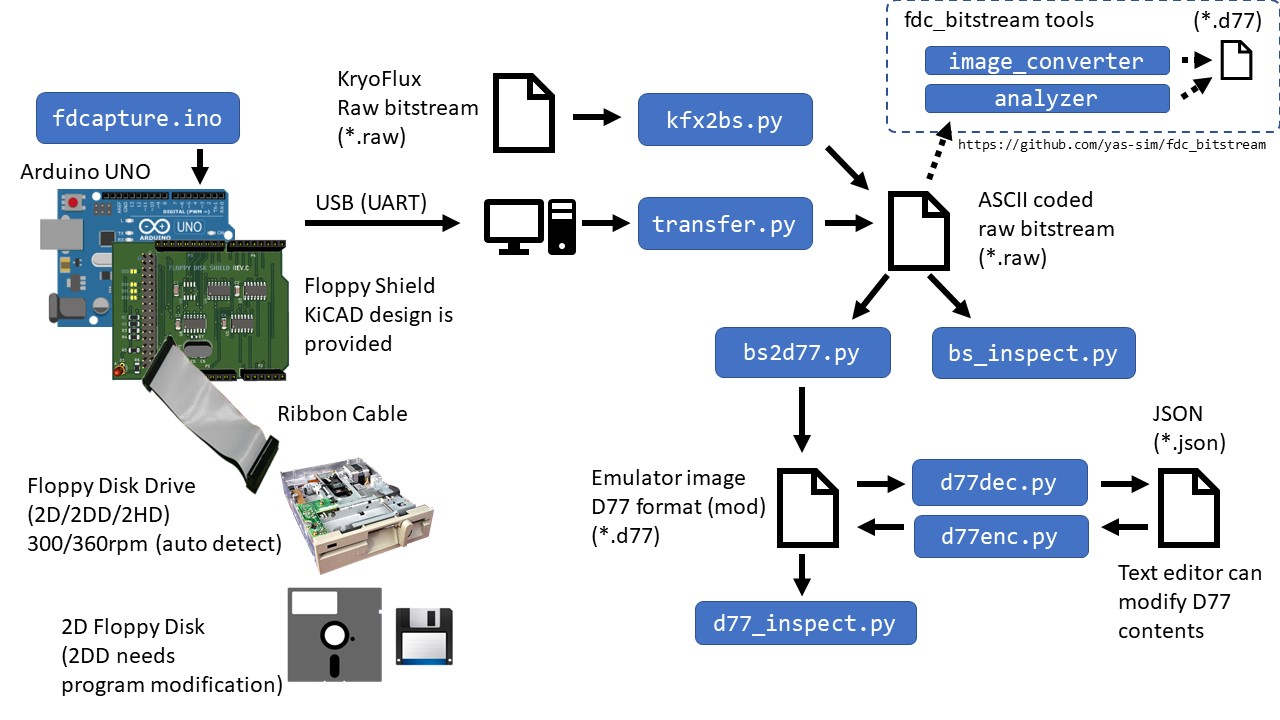
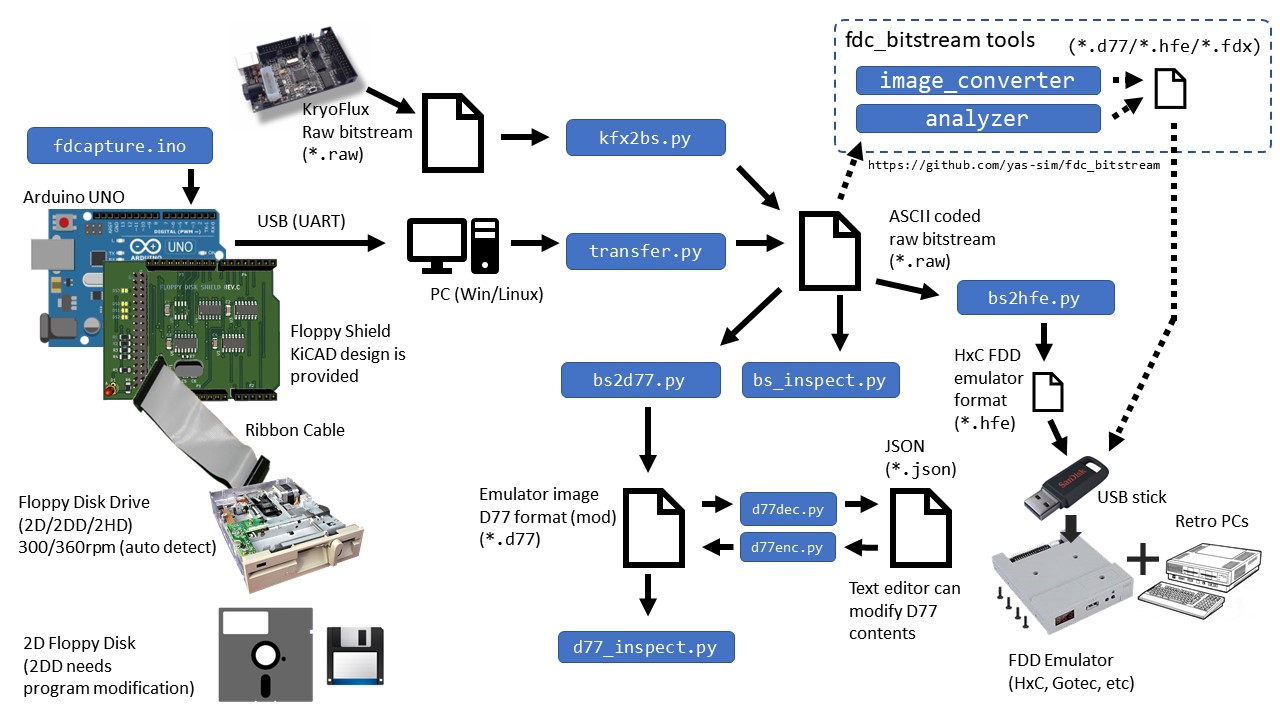
Added bs2hfe.py.

diff --git a/bs2hfe.py b/bs2hfe.py
@@ -1,0 +1,131 @@
+import os
+import sys
+import argparse
+
+from floppylib.bitstream import bitstream
+
+def set_word(barray:bytearray, pos:int, data:int):
+    for i in range(2):
+        barray[pos + i] = data & 0xff
+        data >>= 8
+
+def set_string(barray:bytearray, pos:int, string:str):
+    for i, s in enumerate(string):
+        barray[pos + i] = ord(s)
+
+def align(val:int, border:int):
+    return int(((val//border)+(1 if (val % border != 0) else 0))*border)
+
+def main(args):
+    if args.output is None:
+        base, ext = os.path.splitext(args.input)
+        out_name = base + '.d77'
+    else:
+        out_name = args.output
+
+    # read a bitstream file
+    bs = bitstream()
+    bs.read_dist_buf(args.input)
+    spin_speed = bs.spin_spd
+    print('Spin speed:', spin_speed*1000, 'ms')
+
+    # Prepare MFM (HFE) quantized track buffer images. (C/D mixed)
+    # Note: HFE format is LSB first.
+    bit_cell_size = args.clk_spd / 500e3
+    byte = 0
+    bit_count = 0
+    mfm_track_bufs = []
+    for track_id, track_data in bs.disk.items():
+        #if track_id == '3-0': break                  # FOR DEBUG PURPOSE
+        mfm_track_buf = []
+        for dist in track_data:
+            quantized = int((dist + bit_cell_size / 2) / bit_cell_size)
+            for q in range(quantized):
+                bit = 1 if q == quantized -1 else 0
+                byte |= (bit << bit_count)
+                bit_count += 1
+                if bit_count == 8:
+                    mfm_track_buf.append(byte)
+                    byte = 0
+                    bit_count = 0
+        if bit_count != 0:
+            mfm_track_buf.append(byte)
+        mfm_track_bufs.append(mfm_track_buf)
+    if len(mfm_track_bufs) % 2 == 1:
+        mfm_track_bufs.append([])    # add a dummy data to make the number of mfm tracks even
+
+    track_data_offset = 2       # 0x200 unit. startng from 0x400 (==2)
+    # Multiplex side 0 and side 1 data to generate HFE track data
+    hfe_track_bufs = []
+    hfe_track_table = bytearray([0] * 80 * 2)
+    hfe_blk_size = 0x100
+    offset_list = []
+    for track_n in range(len(mfm_track_bufs) // 2):
+        mfm_side0 = mfm_track_bufs[track_n * 2    ]
+        mfm_side1 = mfm_track_bufs[track_n * 2 + 1]
+        hfe_track_buf = bytearray([0] * align(len(mfm_side0) + len(mfm_side1), 0x400))
+        blk_id = 0
+        src_ptr = 0
+        dst_ptr = 0
+        while src_ptr < len(mfm_side0) or src_ptr < len(mfm_side1):
+            if src_ptr < len(mfm_side0):
+                size = hfe_blk_size if src_ptr + hfe_blk_size < len(mfm_side0) else len(mfm_side0) - src_ptr
+                hfe_track_buf[dst_ptr:dst_ptr+size+1] = mfm_side0[src_ptr:src_ptr+size+1]
+            dst_ptr += hfe_blk_size
+            if src_ptr < len(mfm_side1):
+                size = hfe_blk_size if src_ptr + hfe_blk_size < len(mfm_side1) else len(mfm_side1) - src_ptr
+                hfe_track_buf[dst_ptr:dst_ptr+size+1] = mfm_side1[src_ptr:src_ptr+size+1]
+            dst_ptr += hfe_blk_size
+            src_ptr += hfe_blk_size
+        hfe_track_bufs.append(hfe_track_buf)
+        # set track_table
+        track_len = len(mfm_side0) + len(mfm_side1)
+        set_word(hfe_track_table, track_n * 4    , track_data_offset)
+        set_word(hfe_track_table, track_n * 4 + 2, track_len)
+        track_data_offset += align(track_len, 0x400) // 0x200     # increase track_data_offset
+
+    # Create the header information
+    hfe_header = bytearray([0] * 26)
+    set_string(hfe_header, 0, "HXCPICFE")
+    hfe_header[8] = 0                         # Revision 0
+    hfe_header[9] = len(hfe_track_bufs)       # number of tracks
+    hfe_header[10] = 2                        # number of valid side
+    hfe_header[11] = 0                        # track_encoding 0==IBMPC_DD_FLOPPYMODE
+    set_word(hfe_header, 12, 250)             # 250Kbit/sec (MFM, data only rate)
+    set_word(hfe_header, 14, 0)               # rpm
+    hfe_header[16] = 7                        # floppy interface mode 7==GENERIC_SHUGGART_DD_FLOPPYMODE
+    hfe_header[17] = 1                        # dnu
+    set_word(hfe_header, 18, 1)               # track list offset (x 0x200)
+    hfe_header[20] = 0xff                     # write allowed
+    hfe_header[21] = 0xff                     # ff:single step  00:double step mode
+    hfe_header[22] = 0xff                     # use an alternate track encoding for track 0 side 0
+    hfe_header[23] = 0xff                     # alternate track encoding for track 0 side 0
+    hfe_header[24] = 0xff                     # use an alternate track encoding for track 0 side 1
+    hfe_header[25] = 0xff                     # alternate track encoding for track 0 side 1
+
+    with open(out_name, 'wb') as f:
+        # write the file header
+        f.write(hfe_header)
+
+        # write track offset table
+        f.seek(0x0200)
+        f.write(hfe_track_table)
+
+        # write track data
+        for track_n, hfe_track in enumerate(hfe_track_bufs):
+            offset = (hfe_track_table[track_n * 4] | (hfe_track_table[track_n * 4 + 1] << 8)) * 0x200
+            f.seek(offset)
+            f.write(hfe_track)
+
+    print('Conversion completed.')
+
+if __name__ == "__main__":
+    print('** Floppy shield bit-stream data to HFE image converter')
+    parser = argparse.ArgumentParser()
+    parser.add_argument('-i', '--input', type=str, required=True, help='input image file path')
+    parser.add_argument('-o', '--output', type=str, required=False, default=None, help='output D77 image path')
+    parser.add_argument('--log_level', type=int, required=False, default=0, help='log level: 0=off, 1=minimum, 2=verbose')
+    parser.add_argument('--clk_spd', type=int, required=False, default=4e6, help='FD-shield capture clock speed (default=4MHz=4000000)')
+    args = parser.parse_args()
+
+    main(args)

diff --git a/floppylib/bitstream.py b/floppylib/bitstream.py
@@ -47,6 +47,36 @@ class bitstream:
                 elif line[0]=='~':         # the data lines must start with '~'
                     linebuf += line[1:]
 
+    def read_dist_buf(self, file):
+        self.disk = {}
+        self.spin_spd = 0.2             # default spin speed = 0.2ms = 300rpm
+        dist = 0
+        with open(file, 'r') as f:
+            linebuf = ''
+            for line in f:
+                line = line.rstrip('\n')
+                if len(line)==0:
+                    continue
+                if '**SPIN_SPD'   in line:
+                    self.spin_spd = float(line.split(' ')[1])
+                if '**TRACK_READ' in line:
+                    trk, side = [ int(v) for v in line.split(' ')[1:] ]
+                    linebuf = ''
+                elif '**TRACK_END' in line:
+                    if len(linebuf)==0:
+                        continue
+                    bit_stream = []
+                    # convert linebuf to bit stream
+                    for ch in linebuf:
+                        dist += ord(ch) - ord(' ') - 1
+                        if ch != ord('{'):
+                            bit_stream.append(dist)
+                            dist = 0
+                    key = '{}-{}'.format(trk, side)
+                    self.disk[key] = bit_stream
+                elif line[0]=='~':         # the data lines must start with '~'
+                    linebuf += line[1:]
+
     def display_histogram(self, track, side):
         histo = [ 0 ] * (ord('z')-ord(' ')+1)
         key = '{}-{}'.format(track, side)

diff --git a/transfer.py b/transfer.py
@@ -86,11 +86,11 @@ if __name__ == '__main__':
     print('** Floppy shield - data transfer tool')
 
     parser = argparse.ArgumentParser()
-    parser.add_argument('-o', '--output', type=str, required=False, default=None, help='output raw bit stream file name (Default = fdshield_(DATE-TIME).raw)')
+    parser.add_argument('-o', '--output', type=str, required=True, default=None, help='output raw bit stream file name (Default = fdshield_(DATE-TIME).raw)')
     parser.add_argument('--start_track', type=int, required=False, default=-1, help='start track number')
     parser.add_argument('--end_track', type=int, required=False, default=-1, help='end track number')
     parser.add_argument('--media_type', type=str, required=False, default="2D", help='media type (2D, 2DD or 2HD)')
-    parser.add_argument('--read_overlap', type=int, required=False, default=0, help='track read 2nd lap overlap percentage (default = 0 %)')
+    parser.add_argument('--read_overlap', type=int, required=False, default=0, help='track read 2nd lap overlap percentage (default = 0 percent)')
     args = parser.parse_args()
 
     main(args)

diff --git a/docs/bs2d77.md b/docs/bs2d77.md
@@ -1,10 +1,25 @@
-bs2d77.py
+# bs2d77.py
 
-
-* Track status  
-  `Track# read_sectors/error_sectors`
-  E.g. `067 14/02` -> 14 sectors read and 2 error sectors (mainly data CRC error). `--abort_id` direct program to abort data reading when a sector which has the identical ID (CHRN) is found in a track (<= Usually, this happens when the track data is over read to the 2nd lap).  
+```sh
+usage: bs2d77.py [-h] -i INPUT [-o OUTPUT] [--high_gain HIGH_GAIN]
+                 [--low_gain LOW_GAIN] [--log_level LOG_LEVEL]
+                 [--clk_spd CLK_SPD] [--abort_index] [--abort_id]
 ```
+
+|option|description|
+|-|-|
+|-h, --help|show this help message and exit|
+|-i INPUT, --input INPUT|input image file path|
+|-o OUTPUT, --output OUTPUT|output D77 image path|
+|--high_gain HIGH_GAIN|high-speed data separator gain (default: 0, recommend:0~0.4)|
+|--low_gain LOW_GAIN|low-speed data separator gain (default: 0, recommend: 0~high_gain)|
+|--log_level LOG_LEVEL|log level: 0=off, 1=minimum, 2=verbose|
+|--clk_spd CLK_SPD|FD-shield capture clock speed (default=4MHz=4000000)|
+|--abort_index|abort ID reading on 2nd index mark detection (Default=False)|
+|--abort_id|abort ID reading on 2nd identical ID detection (Default=True)|
+
+## Command line example  
+```sh
 python bs2d77.py -i bitstream.raw --abort_id
 ** Floppy shield bit-stream data to D77 image converter
 Spin speed: 198.85759 ms
@@ -27,4 +42,7 @@ Adding raw track image data (MFM only)
    43 error sectors
 16.0 sectors in a track (average)
 ```
+* Track status  
+  `Track# read_sectors/error_sectors`
+  E.g. `067 14/02` -> 14 sectors read and 2 error sectors (mainly data CRC error). `--abort_id` direct program to abort data reading when a sector which has the identical ID (CHRN) is found in a track (<= Usually, this happens when the track data is over read to the 2nd lap).  
 

diff --git a/README.md b/README.md
@@ -33,7 +33,8 @@ The system consists of the hardware and software:
 |:--------|:-----------|
 |[`fdcapture.ino`](./docs/fdcapture_ino.md)|Arduino firmware (sketch) for the floppy shield<br> (`./fdcapture/fdcapture.ino`)|
 |[`transfer.py`](./docs/transfer.md)|Transfers raw bitstream data from Arduino to a PC|
-|[`bs2d77.py`](./docs/bs2d77.md)|Bit-stream data to emulator disk image (D77/D88) converter.<br> The program generates modified D77 image data (D77mod). D77mod specification is [here](docs/D77mod_format.md). The D77mod uses some reserved bytes in the header but it is designed to keep backward compatibility with the standard D77 disk images. The D77mod image should work with emulators which supports regular D77/D88 disk images.|
+|[`bs2d77.py`](./docs/bs2d77.md)|Bit-stream data (.raw) to emulator disk image (D77/D88) converter.<br> The program generates modified D77 image data (D77mod). D77mod specification is [here](docs/D77mod_format.md). The D77mod uses some reserved bytes in the header but it is designed to keep backward compatibility with the standard D77 disk images. The D77mod image should work with emulators which supports regular D77/D88 disk images.|
+|`bs2hfe`|Bit-stream data (.raw) to .HFE floppy image format.<br>The .hfe disk image format is used for the [HxC FDD emulator device](https://hxc2001.com/download/floppy_drive_emulator/).|
 |[`bs_inspect.py`](./docs/bs_inspect.md)|Data inspection/analyze tool for bit-stream data|
 |[`d77_inspect.py`](./docs/d77_inspect.md)|Data inspection/analyze tool for D77/D88 disk image data|
 |`floppylib.py`|A library which provides fundamental floppy disk functions.<br> This library is including data-separator, digital VFO, MFM decoder and IBM format parser|

diff --git a/docs/transfer.md b/docs/transfer.md
@@ -1,13 +1,34 @@
-transfer.py
+# transfer.py
+
+This program transfers the raw bit stream FD data from the Arduino FD-cautpre shield to the host PC.  
 
 ```sh
-python transfer.py --help
-** Floppy shield - data transfer tool
-usage: transfer.py [-h] [-o OUTPUT]
+usage: transfer.py [-h] -o OUTPUT [--start_track START_TRACK]
+                   [--end_track END_TRACK] [--media_type MEDIA_TYPE]
+                   [--read_overlap READ_OVERLAP]
 
 optional arguments:
   -h, --help            show this help message and exit
   -o OUTPUT, --output OUTPUT
-                        output raw bit stream file name
-                        (Default=fdshield_(date-time).log
+                        output raw bit stream file name (Default =
+                        fdshield_(DATE-TIME).raw)
+  --start_track START_TRACK
+                        start track number
+  --end_track END_TRACK
+                        end track number
+  --media_type MEDIA_TYPE
+                        media type (2D, 2DD or 2HD)
+  --read_overlap READ_OVERLAP
+                        track read 2nd lap overlap percentage (default = 0
+                        percent)
+```
+
+- Read a 2D disk  
+```sh
+python transfer.py -o image.raw
+```
+
+- Read a 2DD disk with 5% read overlap (read 105% of track from the index hole)
+```sh
+python transfer.py -o image.raw --medi_type 2DD --read_overlap 5
 ```

diff --git a/docs/bs2hfe.md b/docs/bs2hfe.md
@@ -1,0 +1,21 @@
+# bs2hfe.py
+
+```sh
+usage: bs2hfe.py [-h] -i INPUT [-o OUTPUT] [--log_level LOG_LEVEL] [--clk_spd CLK_SPD]
+```
+
+|option|description|
+|-|-|
+|-h, --help|show this help message and exit|
+|-i INPUT, --input INPUT|input image file path|
+|-o OUTPUT, --output OUTPUT|output D77 image path|
+|--log_level LOG_LEVEL|log level: 0=off, 1=minimum, 2=verbose|
+|--clk_spd CLK_SPD|FD-shield capture clock speed (default=4MHz=4000000)|
+
+## Command line example
+```
+python bs2hfe.py -i diskimage.raw -o diskimage.hfe
+** Floppy shield bit-stream data to HFE image converter
+Spin speed: 199.13520000000003 ms
+Conversion completed.
+```

diff --git a/docs/d77inspect.md b/docs/d77inspect.md
@@ -1,4 +1,4 @@
-d77inspect.py
+# d77inspect.py
 
 ```sh
 python d77inspect.py -i gutchan_bank.d77 -t 0

diff --git a/docs/kfx2bs.md b/docs/kfx2bs.md
@@ -1,4 +1,4 @@
-kfx2bs.py
+# kfx2bs.py
 
 ```sh
 python kfx2bs.py --help

diff --git a/docs/fdcapture_ino.md b/docs/fdcapture_ino.md
@@ -1,3 +1,3 @@
-fdcapture_ino.md
+# fdcapture_ino.md
 
 WIP
